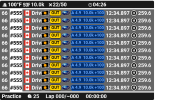
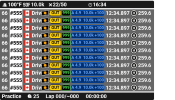
Added PushToPass to Relative.

Changed region(s): [[0.3429, 0.09, 0.4286, 0.93], [0.5143, 0.03, 0.6, 0.09]]

diff --git a/Overlays/benofficial2 - iRacing Relative/JavascriptExtensions/Relative.js b/Overlays/benofficial2 - iRacing Relative/JavascriptExtensions/Relative.js
@@ -401,6 +401,33 @@ function getRelativeTextColor(index)
     return white;
 }
 
+function getRelativePushToPassCount(index)
+{
+    if (index == 0)
+    {
+        if ($prop('benofficial2.Car.HasPushToPassTimer') == true)
+            return isnull($prop('benofficial2.PushToPass.TimeLeft'), 0)
+
+        return isnull($prop('benofficial2.PushToPass.Count'), 0)
+    }
+    else
+    {
+        return isnull(getRelativeProp(index, 'PushToPassCount'), 0)
+    }
+}
+
+function getRelativePushToPassActivated(index)
+{
+    if (index == 0)
+    {
+        return isnull($prop('benofficial2.PushToPass.Activated'), false)
+    }
+    else
+    {
+        return isnull(getRelativeProp(index, 'PushToPassActivated'), false)
+    }
+}
+
 function getClassSof(classIdx)
 {
     return isnull(getStandingsClassProp(classIdx, 'Sof'), 0);

diff --git a/Plugin/Modules/PushToPass.cs b/Plugin/Modules/PushToPass.cs
@@ -33,6 +33,7 @@ namespace benofficial2.Plugin
 
         private TrackModule _trackModule = null;
         private CarModule _carModule = null;
+        private SessionModule _sessionModule = null;
         private bool _wasActivated = false;
         private DateTime _activatedTime = DateTime.MinValue;
         private DateTime _deactivatedTime = DateTime.MinValue;
@@ -41,6 +42,7 @@ namespace benofficial2.Plugin
         {
             _trackModule = plugin.GetModule<TrackModule>();
             _carModule = plugin.GetModule<CarModule>();
+            _sessionModule = plugin.GetModule<SessionModule>();
 
             plugin.AttachDelegate(name: "PushToPass.Enabled", valueProvider: () => Enabled);
             plugin.AttachDelegate(name: "PushToPass.Activated", valueProvider: () => Activated);
@@ -54,7 +56,7 @@ namespace benofficial2.Plugin
         {
             if (_carModule?.HasPushToPassCount ?? false)
             {
-                Enabled = true;
+                Enabled = !_sessionModule.Oval;
                 Activated = (bool)data.NewData.PushToPassActive;
                 RawDataHelper.TryGetTelemetryData<int>(ref data, out int p2pCount, "P2P_Count");
                 Count = p2pCount;
@@ -66,7 +68,7 @@ namespace benofficial2.Plugin
             {
                 // For Super Formula, the telemetry only exposes 'activated' and 'timeLeft'.
                 // We have to generate the other values.
-                Enabled = true;
+                Enabled = !_sessionModule.Oval;
                 Activated = (bool)data.NewData.PushToPassActive;
                 RawDataHelper.TryGetTelemetryData<int>(ref data, out int p2pCount, "P2P_Count");
                 TimeLeft = p2pCount;

diff --git a/Plugin/Modules/Relative.cs b/Plugin/Modules/Relative.cs
@@ -69,6 +69,8 @@ namespace benofficial2.Plugin
         public TimeSpan LastLapTime { get; set; } = TimeSpan.Zero;
         public int SessionFlags { get; set; } = 0;
         public string TireCompound { get; set; } = string.Empty;
+        public int PushToPassCount { get; set; } = 0;
+        public bool PushToPassActivated { get; set; } = false;
     }
 
     public class RelativeAhead
@@ -157,6 +159,8 @@ namespace benofficial2.Plugin
                 plugin.AttachDelegate(name: $"Relative.{aheadBehind}{rowIdx:00}.LastLapTime", valueProvider: () => row.LastLapTime);
                 plugin.AttachDelegate(name: $"Relative.{aheadBehind}{rowIdx:00}.SessionFlags", valueProvider: () => row.SessionFlags);
                 plugin.AttachDelegate(name: $"Relative.{aheadBehind}{rowIdx:00}.TireCompound", valueProvider: () => row.TireCompound);
+                plugin.AttachDelegate(name: $"Relative.{aheadBehind}{rowIdx:00}.PushToPassCount", valueProvider: () => row.PushToPassCount);
+                plugin.AttachDelegate(name: $"Relative.{aheadBehind}{rowIdx:00}.PushToPassActivated", valueProvider: () => row.PushToPassActivated);
             }
         }
 
@@ -214,6 +218,8 @@ namespace benofficial2.Plugin
                 row.LastLapTime = driver.LastLapTime;
                 row.SessionFlags = driver.SessionFlags;
                 row.TireCompound = _carModule.GetTireCompoundLetter(driver.TireCompoundIdx);
+                row.PushToPassCount = driver.PushToPassCount;
+                row.PushToPassActivated = driver.PushToPassActivated;
             }
         }
 

diff --git a/Plugin/Modules/Driver.cs b/Plugin/Modules/Driver.cs
@@ -153,6 +153,8 @@ namespace benofficial2.Plugin
         public double RelativeGapToPlayer { get; set; } = 0.0;
         public double EstTime { get; set; } = 0.0;
         public int TireCompoundIdx { get; set; } = -1;
+        public int PushToPassCount { get; set; } = 0;
+        public bool PushToPassActivated { get; set; } = false;
     }
 
     public class PlayerDriver
@@ -681,6 +683,8 @@ namespace benofficial2.Plugin
                 RawDataHelper.TryGetTelemetryData<float>(ref data, out float lapDistPct, "CarIdxLapDistPct", carIdx);
                 RawDataHelper.TryGetTelemetryData<float>(ref data, out float estTime, "CarIdxEstTime", carIdx);
                 RawDataHelper.TryGetTelemetryData<int>(ref data, out int tireCompoundIdx, "CarIdxTireCompound", carIdx);
+                RawDataHelper.TryGetTelemetryData<int>(ref data, out int p2pCount, "CarIdxP2P_Count", carIdx);
+                RawDataHelper.TryGetTelemetryData<int>(ref data, out int p2pStatus, "CarIdxP2P_Status", carIdx);
 
                 if (!Drivers.TryGetValue(carNumber, out Driver driver))
                 {
@@ -719,6 +723,8 @@ namespace benofficial2.Plugin
                 driver.TrackPositionPercent = lapDistPct;
                 driver.EstTime = estTime;
                 driver.TireCompoundIdx = tireCompoundIdx;
+                driver.PushToPassCount = p2pCount;
+                driver.PushToPassActivated = p2pStatus > 0;
 
                 if (driver.Lap > -1 && driver.TrackPositionPercent > -Constants.DistanceEpsilon)
                 {
